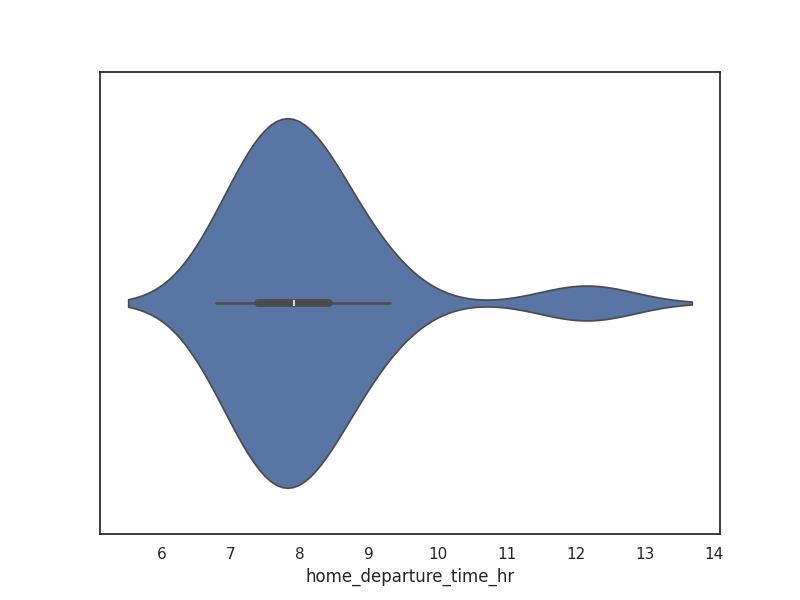
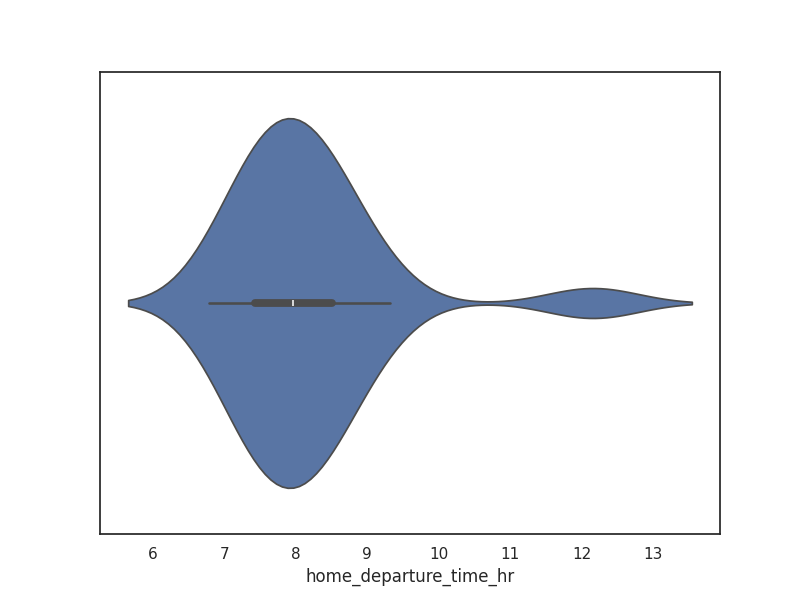
Addressed multiple rows for departure and arrival time evolution

diff --git a/make_plots.py b/make_plots.py
@@ -901,7 +901,8 @@ def predictions_by_month(plots_folder, reg, df, start, end):
     # drop rows where start + '_departure_time_hr' is NaN
     df_notna = df_ss.dropna()
 
-    counts = df_notna['month'].value_counts().sort_index().to_list()
+    counts = (df_notna['month'].value_counts().sort_index()
+              .reindex(range(1, 13), fill_value=0).to_list())
     Y = []
     monthly_avg = []
     for i in range(1, 13):
@@ -947,6 +948,12 @@ def predictions_by_month(plots_folder, reg, df, start, end):
 
 
 def departure_times_over_time(plots_folder, start, end, df):
+    # If there are multiple entries for the same date, keep the right one
+    if start == 'home':
+        df = df.drop_duplicates(subset='date', keep='first').copy()
+    else:
+        df = df.drop_duplicates(subset='date', keep='last').copy()
+
     # Apply the default theme
     sns.set_theme()
 
@@ -983,6 +990,12 @@ def departure_times_over_time(plots_folder, start, end, df):
 
 def arrival_times_over_time(plots_folder, start, end, df,
                             departure_targets=False):
+    # If there are multiple entries for the same date, keep the right one
+    if start == 'home':
+        df = df.drop_duplicates(subset='date', keep='first').copy()
+    else:
+        df = df.drop_duplicates(subset='date', keep='last').copy()
+
     # Apply the default theme
     sns.set_theme()
 

diff --git a/main.py b/main.py
@@ -15,12 +15,12 @@ for trip in trips:
                 'bellevue']:
         continue
 
-    gbr = True if trip not in ['bellevue', 'springfield'] else False
-    dtr = True if trip not in ['bellevue', 'springfield'] else False
-    rfr = True if trip not in ['bellevue', 'springfield'] else False
+    gbr = True if trip not in ['bellevue'] else False
+    dtr = True if trip not in ['bellevue'] else False
+    rfr = True if trip not in ['bellevue'] else False
     nn = False
-    xgb = True if trip not in ['bellevue', 'springfield'] else False
-    ensemble_r = True if trip not in ['bellevue', 'springfield'] else False
+    xgb = True if trip not in ['bellevue'] else False
+    ensemble_r = True if trip not in ['bellevue'] else False
 
     filename = f'commuting_{trip}.csv'
     df = dp.process_data(filename)
